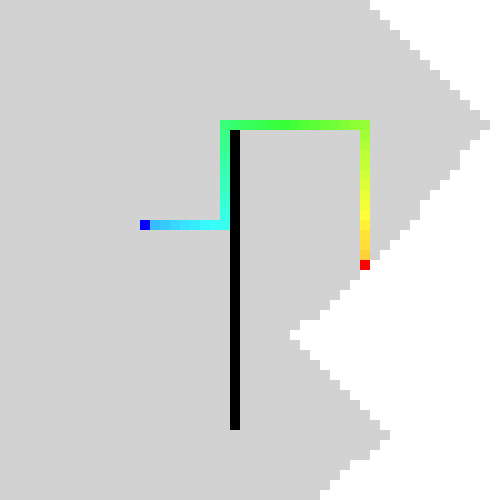
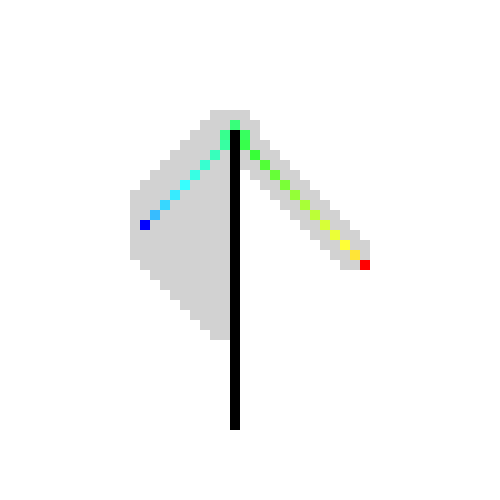
Issue #1

diff --git a/main.cpp b/main.cpp
@@ -30,7 +30,7 @@ const string BRAIN_FUCKING[] = {
         "/Users/makito/Temp/Astar/Map_Brain_Fucking_Path.png"
 };
 
-const int ALLOW_VERTEX_PASSTHROUGH = 0;
+const int ALLOW_VERTEX_PASSTHROUGH = 1;
 const int NODE_FLAG_CLOSED = -1;
 const int NODE_FLAG_UNDEFINED = 0;
 const int NODE_FLAG_OPEN = 1;
@@ -43,7 +43,7 @@ const int NODE_TYPE_END = 3;
 const int G_DIRECT = 10;
 const int G_SKEW = 14;
 
-const string *FILE_PATH = BRAIN_FUCKING;
+const string *FILE_PATH = M50_3;
 
 class MapNode {
 public:
@@ -106,6 +106,22 @@ vector<MapNode *> find();
 void drawPath(Mat &map, vector<MapNode *> path);
 
 void drawOpenList();
+
+/**	The standard heuristic is the Manhattan distance.
+ *	Look at your cost function and see what the least cost is
+ *	for moving from one space to another.
+ *	The heuristic should be cost times manhattan distance: */
+inline int manhattan_distance(MapNode* node1, MapNode* node2){
+    return abs(node2->x - node1->x) + abs(node2->y - node1->y);
+}
+
+/**	If on your map you allow diagonal movement, then you need a different heuristic.
+ *	The Manhattan distance for (4 east, 4 north) will be 8.
+ *	However, you could simply move (4 northeast) instead, so the heuristic should be 4.
+ *	This function handles diagonals: */
+inline int diagonal_distance(MapNode* node1, MapNode* node2){
+    return max(abs(node2->x - node1->x),abs(node2->y - node1->y));
+}
 
 int main() {
     map = imread(FILE_PATH[0]);
@@ -267,7 +283,12 @@ vector<MapNode *> neighbors(MapNode *node) {
 }
 
 int computeH(MapNode *node1, MapNode *node2) {
-    return abs(node1->x - node2->x) + abs(node1->y - node2->y);
+    // return abs(node1->x - node2->x) + abs(node1->y - node2->y);
+    if (ALLOW_VERTEX_PASSTHROUGH) {
+        return diagonal_distance(node1, node2)*G_SKEW;
+    } else {
+        return manhattan_distance(node1, node2)*G_DIRECT;
+    }
 }
 
 int computeG(MapNode *node1, MapNode *node2) {

diff --git a/README.md b/README.md
@@ -5,6 +5,8 @@ This is an widely used pathfinding and searching algorithm; learn more about A* 
 
 OpenCV is not necessarily required, provided that you have found another way to convert input images into arrays which have the same format used in the example.
 
+Since there might still be some problems in my implementation, so please feel free to give me any advice!
+
 ### Map samples
 
 [Map 50px 1](assets/Map50_1.bmp) | [Map 50px 2](assets/Map50_2.bmp) | [Map 50px 3](assets/Map50_3.bmp)
@@ -15,16 +17,15 @@ OpenCV is not necessarily required, provided that you have found another way to 
 
 > **DO NOT** use images below as input images, they have been scaled up for better visual effect.
 
-Input | Output
------------- | -------------
-![Input](assets/Map50_1_Out.png) | ![Output](assets/Map50_1_Path.png)
-![Input](assets/Map50_2_Out.png) | ![Output](assets/Map50_2_Path.png)
-![Input](assets/Map50_3_Out.png) | ![Output](assets/Map50_3_Path.png)
+Input | Output (Original) | Output (Improved, see [#1](https://github.com/SumiMakito/A-star/issues/1)) 
+------------ | -------------|------------ 
+![Input](assets/Map50_1_Out.png) | ![Output](assets/Map50_1_Path_Orig.png) | ![Output](assets/Map50_1_Path.png) 
+![Input](assets/Map50_2_Out.png) | ![Output](assets/Map50_2_Path_Orig.png) | ![Output](assets/Map50_2_Path.png) 
+![Input](assets/Map50_3_Out.png) | ![Output](assets/Map50_3_Path_Orig.png) | ![Output](assets/Map50_3_Path.png) 
 
-### Could you buy me a cup of cappuccino?
-PayPal | Alipay
-----|----
-[PayPal](https://www.paypal.me/makito) | [Alipay](https://qr.alipay.com/a6x02021re1jk4ftcymlw79)
+### Special thanks
+
+Thanks [@HjalteBested](https://github.com/HjalteBested) for pointing out the problem and giving me some useful advice on how to improve the algorithm in the issue [#1](https://github.com/SumiMakito/A-star/issues/1).
 
 ### License
 Beloved **MIT**
